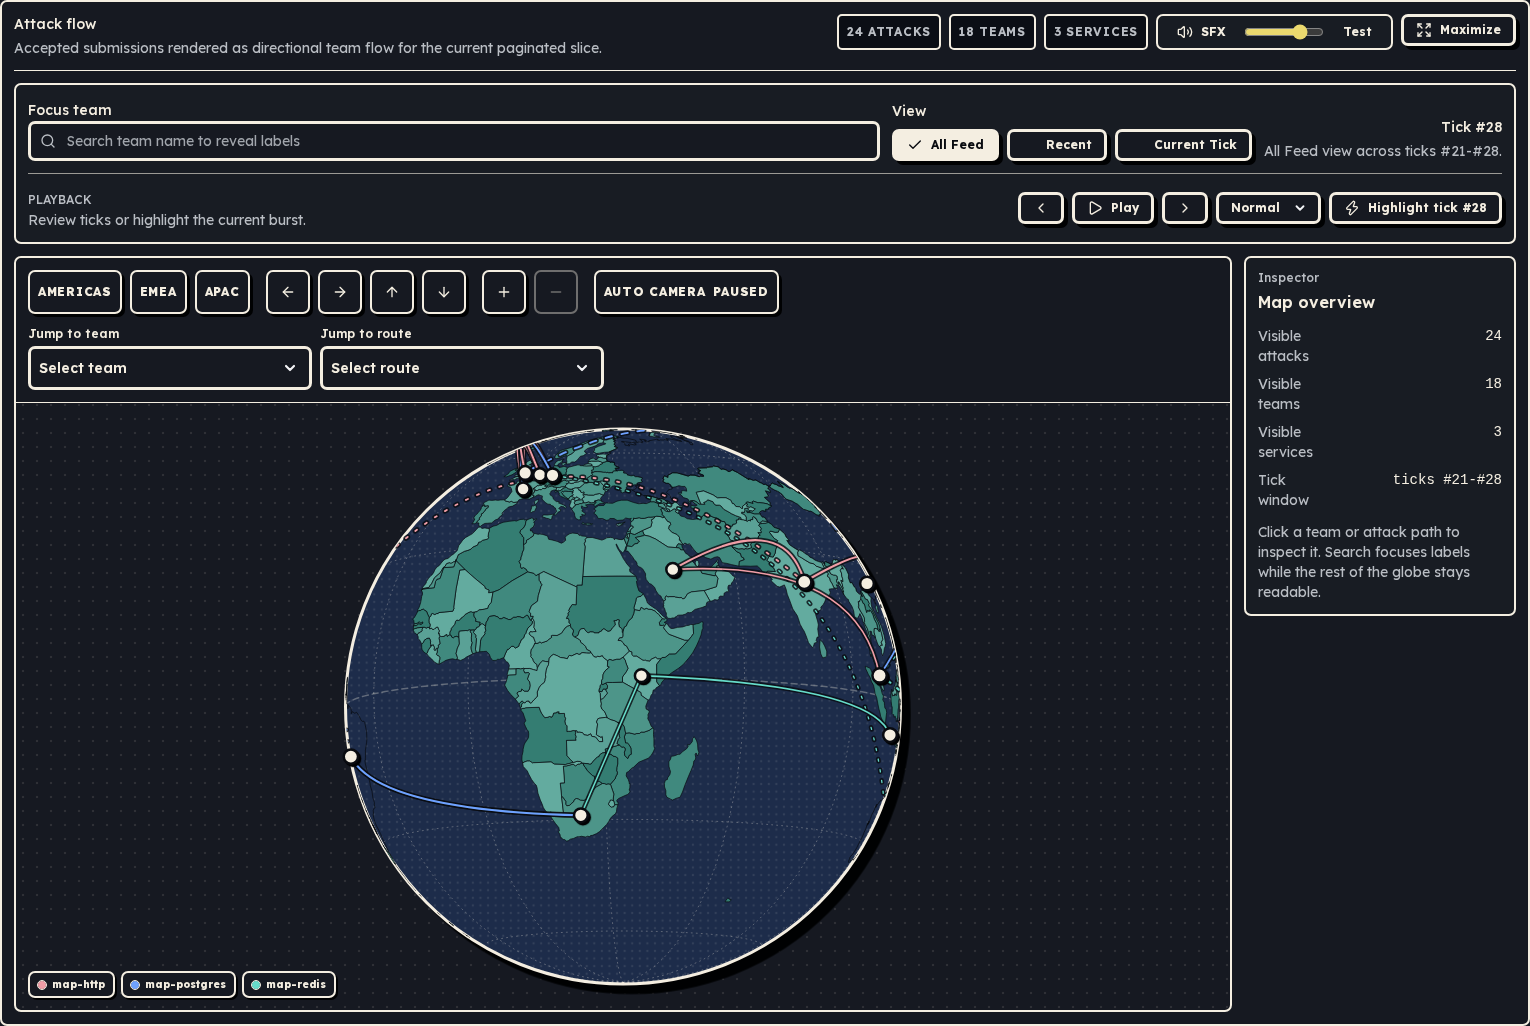
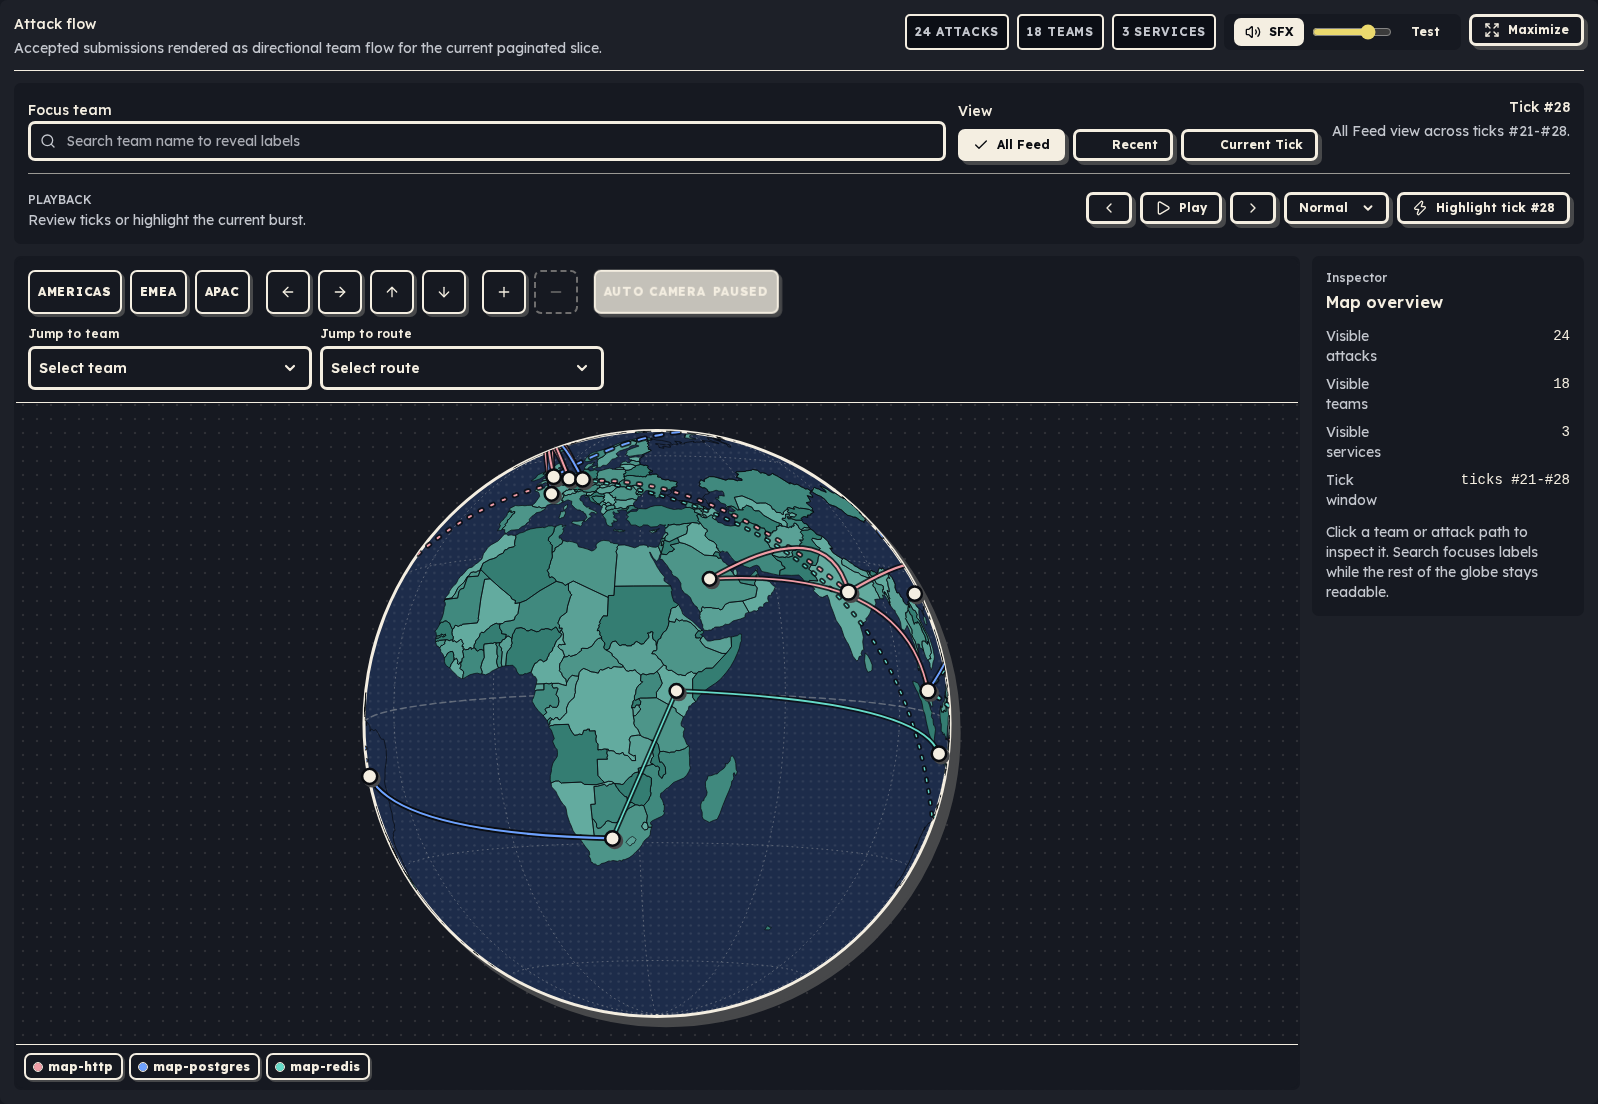
docs: update README and refresh screenshots for v1.7.0

Changed region(s): [[0.0, 0.0, 1.0, 1.0]]

diff --git a/README.md b/README.md
@@ -9,7 +9,7 @@ A self-hosted platform for running Attack-Defense CTF events: tick scheduling, p
 [![License: MIT](https://img.shields.io/badge/License-MIT-green.svg?style=flat-square)](LICENSE)
 
 <p align="center">
-  <img src="docs/images/scoreboard.png" alt="Participant scoreboard with podium cards and per-service attack, defense and SLA breakdown" width="100%" />
+  <img src="docs/images/scoreboard.png" alt="Participant scoreboard with podium cards, team institutions, and per-service attack, defense and SLA breakdown" width="100%" />
 </p>
 
 ---
@@ -31,13 +31,13 @@ A self-hosted platform for running Attack-Defense CTF events: tick scheduling, p
 
 ADTickPlatform runs the whole game loop of an Attack-Defense CTF. Every tick it plants flags, runs checkers, scores attacks and uptime, and pushes the results to every connected browser.
 
-- **Match control.** Start, stop, freeze and pause the match. Pausing blocks submissions, stops the scheduler, holds the tick counter and limits WireGuard access to organizer peers. A scheduled start/end window lets the match run unattended.
-- **Per-team service runtimes.** Each challenge is replicated once per team in its own Docker runtime on a dedicated subnet. Organizers validate images, deploy, redeploy and put services under maintenance from the console.
-- **Scoring.** FaustCTF-style attack points that decay as more teams exploit the same service, plus defense and SLA uptime scoring. Scores come from a replayable pipeline, so they can be audited and recalculated.
-- **Live views.** The scoreboard, the attack feed and a 3D attack globe update over Server-Sent Events. A scoreboard freeze hides standings while the attack feed stays live.
-- **Network access.** One WireGuard peer per player, with config download, key rotation and revoke. `nftables` host rules keep team runtimes isolated from each other.
-- **Flag-gated SSH.** An accepted enemy flag unlocks SSH to the submitting team’s own container for that challenge so the team can patch it in place.
-- **Organizer themes.** Organizers pick the platform theme (Graphite, Paper or Neubrutalism); each player chooses light, dark or system mode.
+- **Match control.** Start, pause, resume, stop, restart finished matches, and freeze the scoreboard. Pausing blocks submissions, stops the scheduler, holds the tick counter, blocks service-to-service traffic, and limits WireGuard access to organizer peers. A scheduled start/end window (in WIB) lets the match run unattended.
+- **Per-team service runtimes.** Each challenge carries category (`web`, `pwn`, `crypto`) and protocol (`http`, `tcp`) metadata and is replicated once per team in its own Docker runtime on a dedicated subnet with configurable storage quotas and optional air-gapped egress/DNS isolation. Organizers validate images, deploy, redeploy, and toggle maintenance from the console.
+- **Scoring & submissions.** FaustCTF-style attack points that decay as more teams exploit the same service, plus defense and SLA uptime scoring with per-flag random nonces, bounded submission history, and team institution metadata. Scores come from a replayable pipeline, and disqualifications take effect immediately even while the public scoreboard is frozen.
+- **Live views.** The scoreboard, the attack feed, and a 3D attack globe update over Server-Sent Events with isolated public and organizer subscriber pools. A scoreboard freeze hides standings while the attack feed stays live, and the web console preserves participant state across transient outages.
+- **Network access & sessions.** One WireGuard peer per player, with config download, key rotation, revoke, and periodic background gateway reconciliation. `nftables`/`iptables` host rules isolate team runtimes, logout revokes JWT sessions server-side, and organizers can rotate team invitation keys on demand.
+- **Flag-gated SSH.** An accepted enemy flag unlocks SSH to the submitting team’s own container for that challenge so the team can patch it in place; deleting the qualifying capture revokes the SSH grant and reapplies host firewall rules.
+- **Organizer themes.** Organizers pick the platform theme (Graphite, Paper, or Neubrutalism); each player chooses light, dark, or system mode.
 
 ---
 
@@ -49,18 +49,22 @@ The participant console and organizer desk below are shown with demo data.
 
 <p align="center">
   <img src="docs/images/participant-overview.png" alt="Participant overview with service, scoreboard, attack and manual shortcuts" width="49%" />
-  <img src="docs/images/attack-globe.png" alt="Attack flow globe showing directional attack routes between teams" width="49%" />
+  <img src="docs/images/participant-services.png" alt="Participant services page with flag submission, challenge category, connection details, and SSH unlock actions" width="49%" />
+</p>
+
+<p align="center">
+  <img src="docs/images/attack-globe.png" alt="Attack flow globe showing directional attack routes between teams in dark mode" width="100%" />
 </p>
 
 ### Organizer desk
 
 <p align="center">
-  <img src="docs/images/organizer-game.png" alt="Organizer game page with match state, schedule window and quick actions" width="100%" />
+  <img src="docs/images/organizer-game.png" alt="Organizer game page with match controls, restart action, WIB schedule window, and scoring audit" width="100%" />
 </p>
 
 <p align="center">
-  <img src="docs/images/organizer-challenges.png" alt="Challenge catalog with runtime status, validation, network and deploy actions" width="49%" />
-  <img src="docs/images/organizer-players.png" alt="Player registry with WireGuard peer status and per-player actions" width="49%" />
+  <img src="docs/images/organizer-challenges.png" alt="Challenge catalog with category and protocol badges, egress isolation, runtime status, and deploy actions" width="49%" />
+  <img src="docs/images/organizer-players.png" alt="Player registry with WireGuard peer status, WireGuard gateway, and applied service access policy" width="49%" />
 </p>
 
 ### Themes
@@ -82,14 +86,14 @@ Go microservices behind a Caddy reverse proxy, with PostgreSQL as the source of 
 
 | Service | Role |
 |---|---|
-| `api-gateway` | Single entry point for the web app: auth, routing, rate limits, audit log |
-| `game-core` | Owns the tick clock, match lifecycle, schedule and flag validity windows |
-| `submission-service` | Validates submitted flags, rejects duplicates and expired flags, emits attack events |
-| `checker-runner` | Runs `put` / `get` / `check` per service per tick and reports SLA results |
+| `api-gateway` | Single entry point for the web app: auth, session revocation, routing, rate limits, audit log |
+| `game-core` | Owns the tick clock, match lifecycle, schedule, nonce-bound flags, and submission retention |
+| `submission-service` | Enforces flag batch/size limits, rejects duplicates and expired flags, and emits attack events |
+| `checker-runner` | Runs `put` / `get` / `check` per service per tick with nonce-authenticated service-state verdicts |
 | `scoring-worker` | Computes attack, defense and SLA scores and publishes scoreboard snapshots |
-| `controller-service` | Provisions and resets team runtimes and issues SSH access after unlock |
-| `realtime-gateway` | Streams scoreboard, attack and service-health updates to browsers |
-| `wireguard-gateway` | Manages player peers and applies gateway changes |
+| `controller-service` | Provisions quota-managed team runtimes, enforces air-gapped egress/DNS and match-pause rules, and manages SSH access |
+| `realtime-gateway` | Streams scoreboard, attack, and admin snapshots over isolated public and organizer SSE pools |
+| `wireguard-gateway` | Manages player peers and reconciles host gateway and `nftables` rules on demand and in the background |
 | `capture-bootstrap` | Startup gate that verifies the host capture policy before the app takes over |
 
 The frontend is a Next.js 16 / React 19 app in `apps/web`. See [System Architecture](docs/architecture.md) for the full design.
@@ -159,9 +163,9 @@ Production runs behind Caddy with automatic database migrations and host network
    ```bash
    make preflight-prod-host
    make up-prod-host
-   make create-admin   # uses the ADMIN_* values from prod.env
+   make create-admin   # reads ADMIN_* from prod.env (or exported ADMIN_PASSWORD)
    ```
-   Host inspection commands need root or `sudo` with `NOPASSWD`.
+   Host inspection commands need root or `sudo` with `NOPASSWD`. `preflight-prod-host` also verifies XFS project quotas (`overlay2` + local volume quotas for `CONTROLLER_SERVICE_DISK_LIMIT_MIB`) and the configured IPv4 uplink interface (`CONTROLLER_INTERNET_INTERFACE`).
 
 > **Packet capture:** guarded live capture needs BPF LSM, kernel BTF, cgroup v2 and local rootful Docker. Setup enables it unless you choose a mode, and preflight rejects hosts that can't support it. Read [capture deployment and migration](deploy/security/direct-capture/README.md) before upgrading existing challenges. Use `CAPTURE_MODE=disabled` for offline PCAP analysis only.
 
@@ -200,6 +204,7 @@ Challenges must follow the [Challenge Runtime Contract](docs/challenge-runtime.m
 - a working `/bin/sh`
 - an SSH daemon (`sshd` or `dropbear`)
 - a password command (`chpasswd` or `passwd`)
+- a checker that advertises `state_nonce` during `validate` and echoes `AD_CHECKER_STATE_NONCE` in `ADPLATFORM_SERVICE_STATE` verdicts
 
 Start from one of the examples:
 
